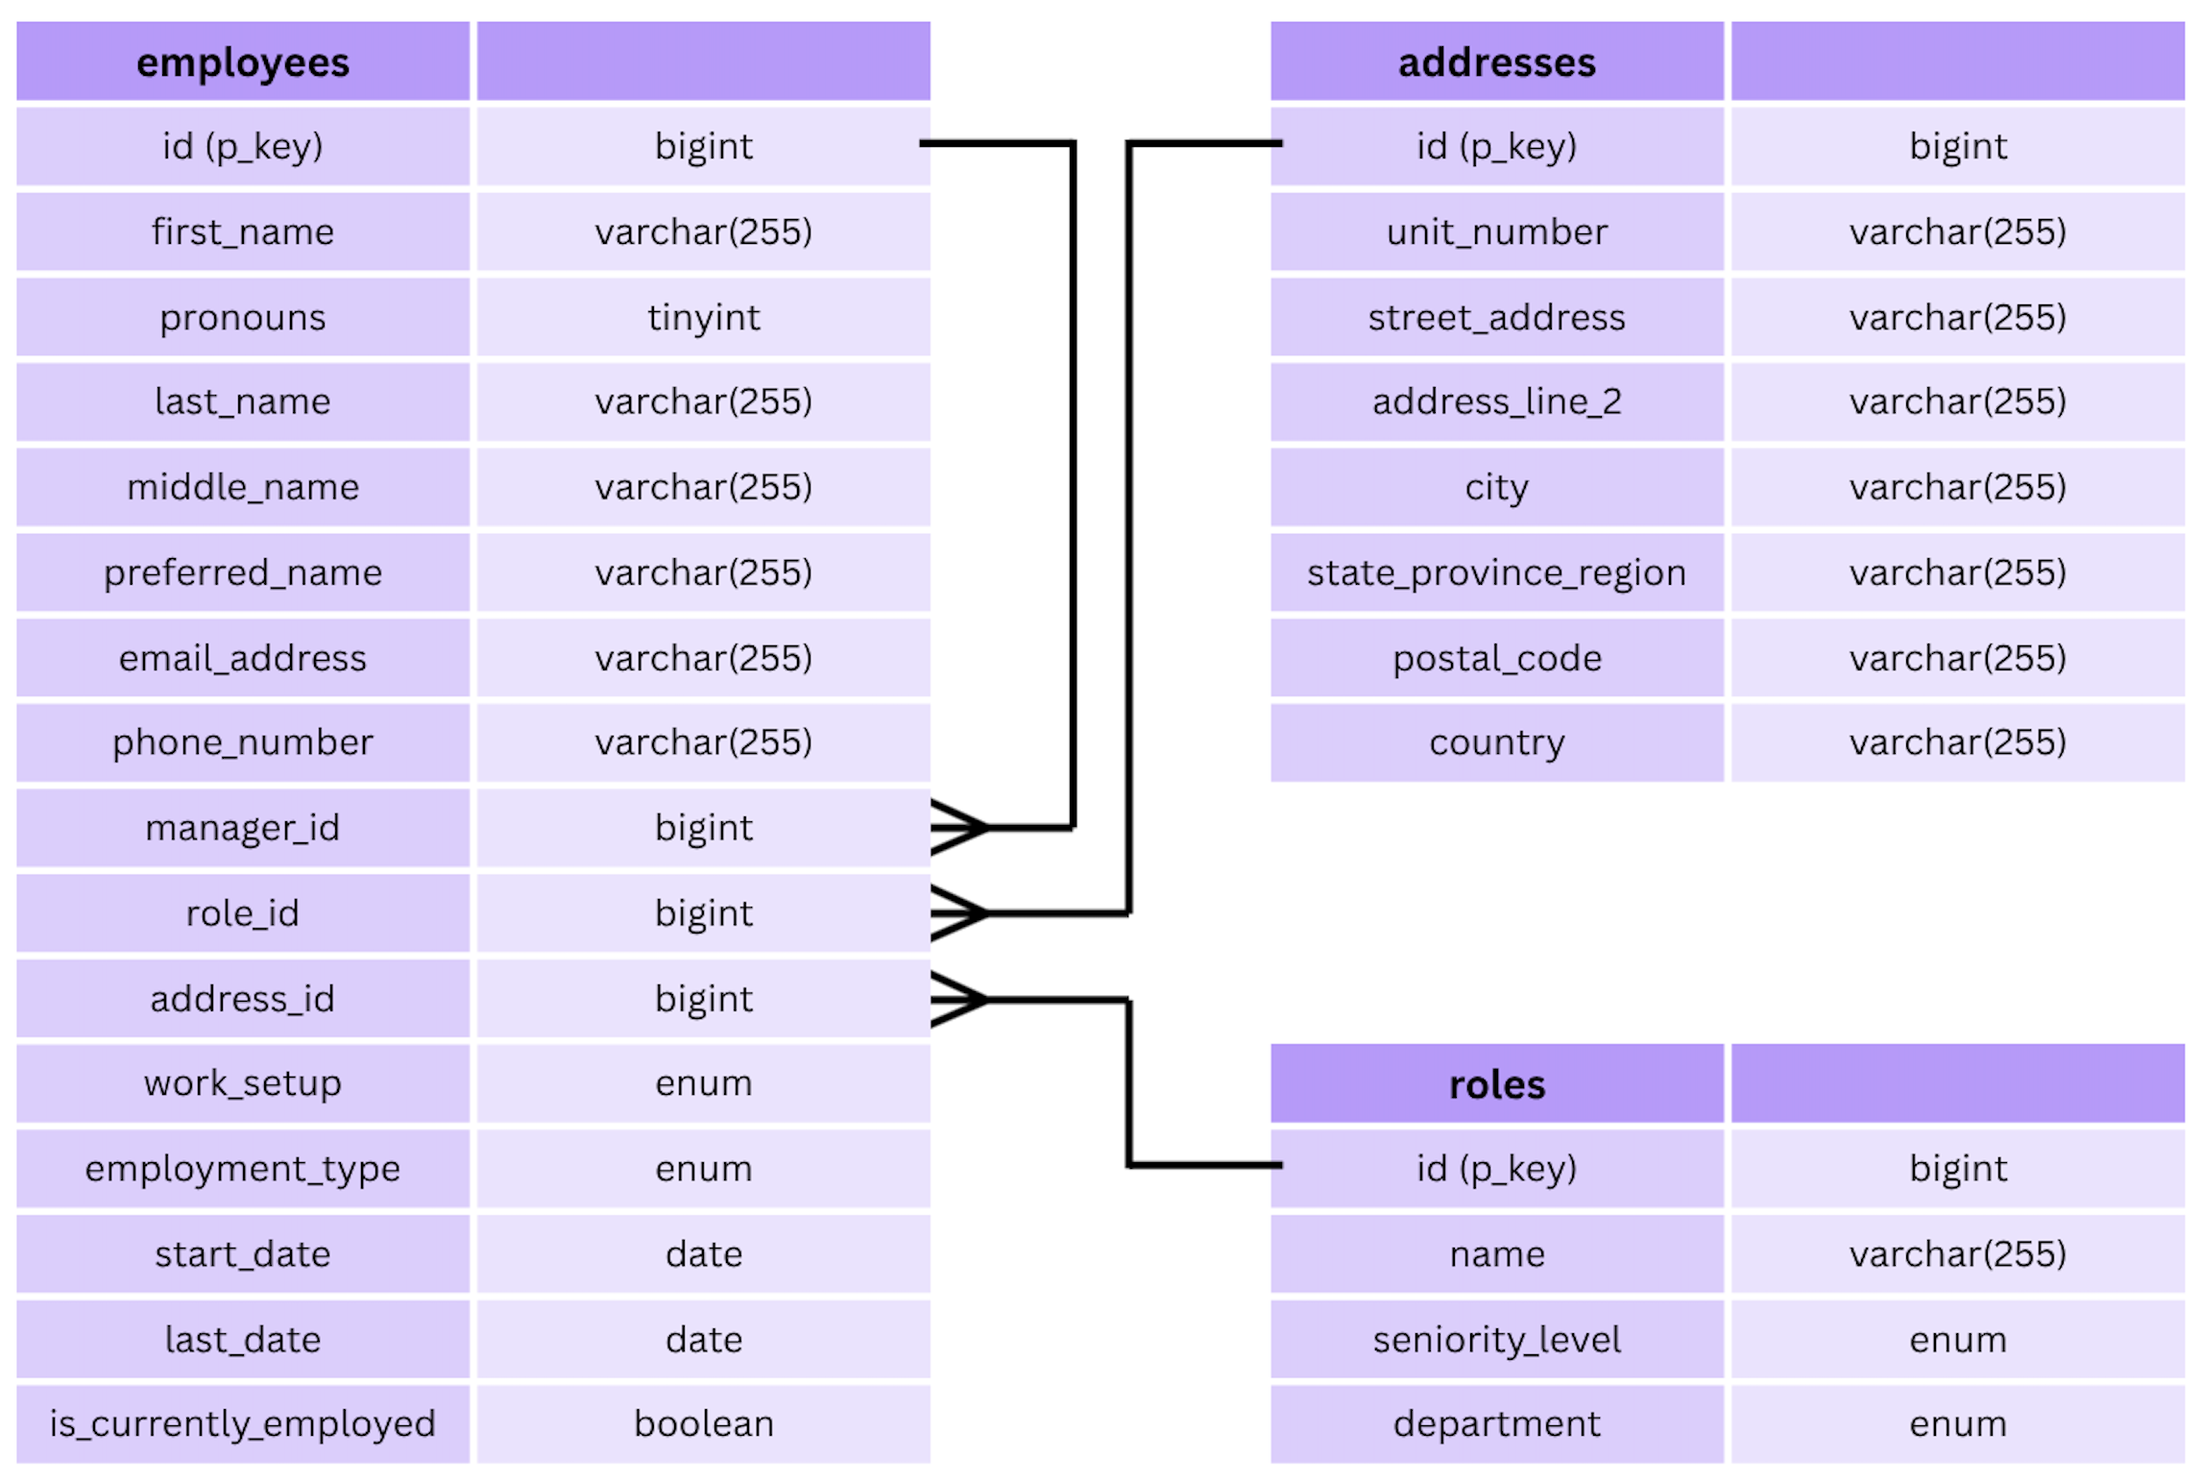
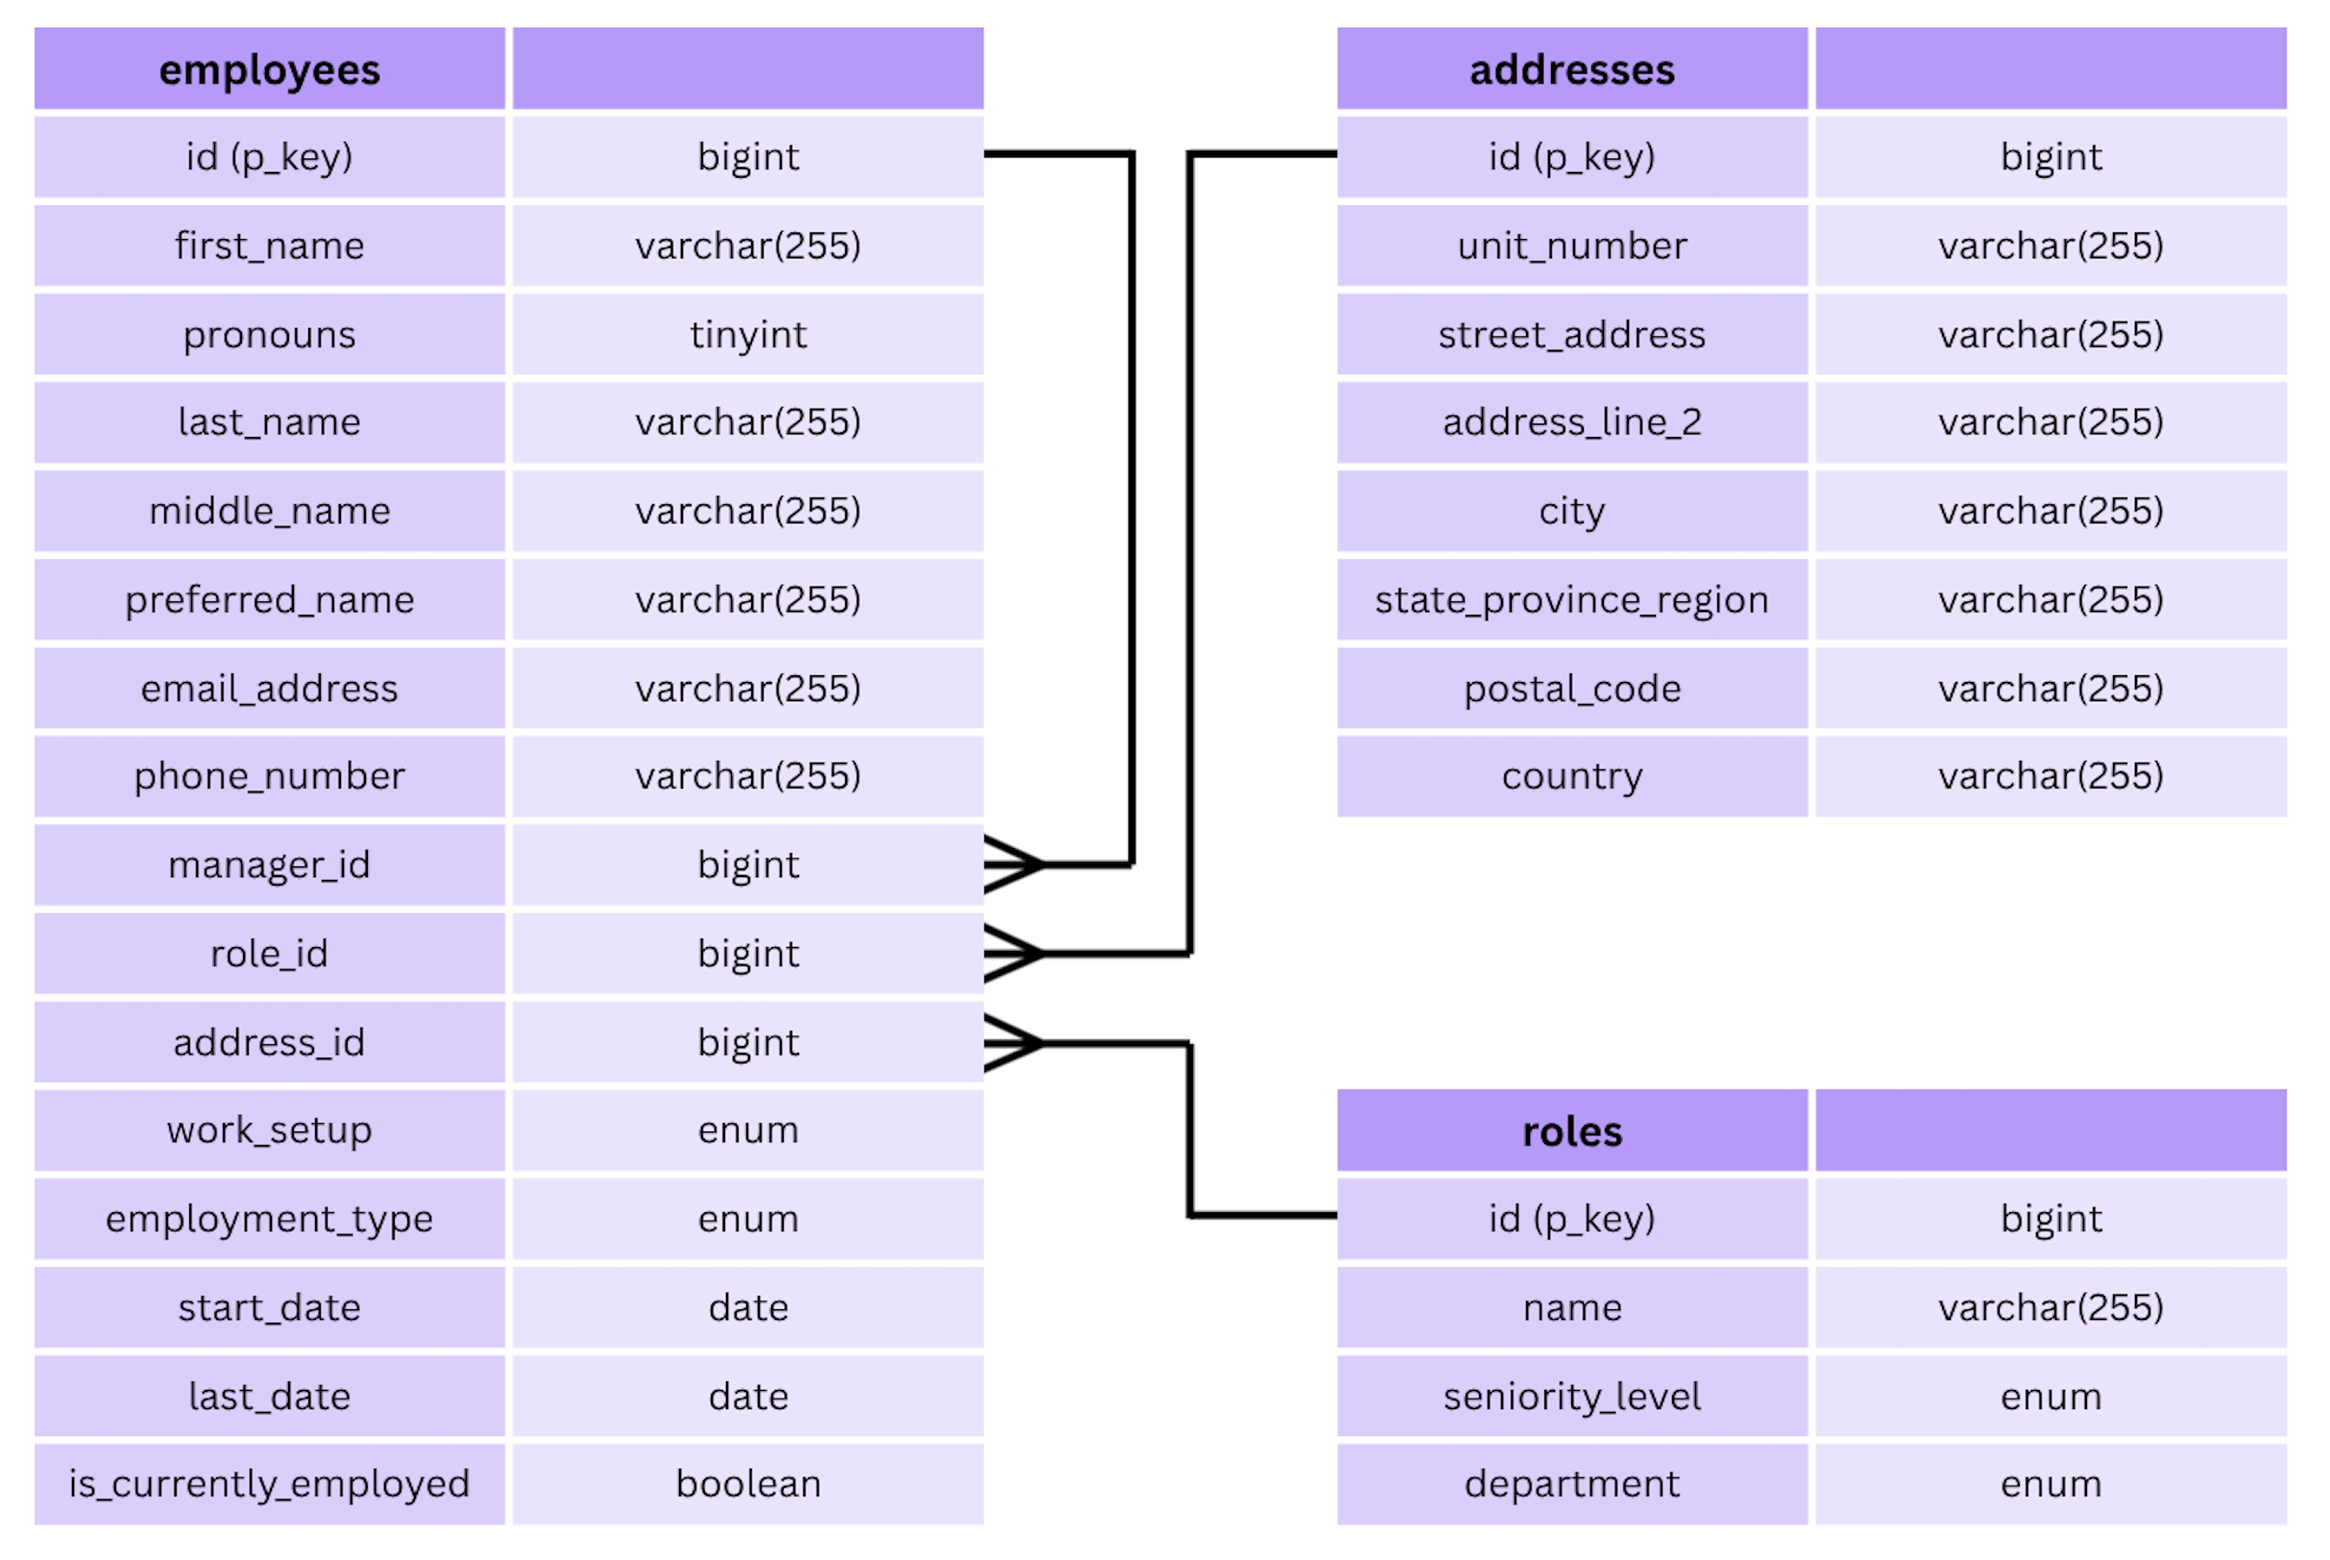
updates README

Changed region(s): [[0.0, 0.0, 1.0, 0.9961], [0.8364, 0.3113, 0.9293, 0.3424], [0.2788, 0.3113, 0.3717, 0.3424]]

diff --git a/README.md b/README.md
@@ -1,4 +1,5 @@
 # Full-Stack Employee Application
+
 [![Java CI with Maven](https://github.com/lottieorton/employees/actions/workflows/maven.yml/badge.svg)](https://github.com/lottieorton/employees/actions/workflows/maven.yml)
 
 **`IN PROGRESS`**
@@ -6,13 +7,23 @@
 ## Demo & Snippets
 
 - **Hosted Link:** TBC
-- **App Preview:** TBC
+- **App Preview:**
 
 <p align="center">
 <img
-src="."
-alt="Employee App Mobile interface"
-width= "600px"
+src="./docs/images/HomePage.png"
+alt="Employee App Homepage"
+width= "1000px"
+/>
+<img
+src="./docs/images/EmployeeDetails.png"
+alt="Employee App Employee Page"
+width= "1000px"
+/>
+<img
+src="./docs/images/EmployeeForm.png"
+alt="Employee App Employee Form"
+width= "1000px"
 />
 </p>
 
@@ -22,12 +33,12 @@ width= "600px"
 
 ### MVP & Purpose
 
-This application will be a full-stack employee management system designed to help users easily oversee employee information. Users can manage employees through full CRUD (Create, Read, Update and Delete) operations.
+This application is a full-stack employee management system designed to help users easily oversee employee information. Users can manage employees through full CRUD (Create, Read, Update and Delete) operations.
 
 ### Tech Stack
 
 - **Frontend:** React, TypeScript, React Query (TanStack Query), React Hook Form, React Testing Library, React Router, Tailwind.
-- **Backend:** Java, Spring Boot, Spring Data JPA, mySQL, OpenAPI/Swagger.
+- **Backend:** Java, Spring Boot, Spring Data JPA, MySQL, OpenAPI/Swagger.
 - **Testing & Tools:** Vitest, REST Assured, Maven, Git, GitHub Actions.
 
 **Why this stack?**
@@ -39,11 +50,18 @@ This application will be a full-stack employee management system designed to hel
 
 ### Database Schema
 
+<p align="center">
 <img
 src="./docs/images/ERD.png"
 alt="Database Entity Relationship Diagram"
-width= "100%"
+width= "1000px"
 />
+</p>
+
+**Key Relational Features:**
+
+- **Normalised Multi-Table Relationships:** Relational mapping linking `employees`, `addresses`, and `roles` through foreign key constraints to ensure data integrity.
+- **Self-Referencing Organisational Hierarchy:** The `Employee` entity contains a self-referencing `manager_id` foreign key pointing to another `Employee` record.
 
 ---
 
@@ -69,7 +87,7 @@ width= "100%"
    mvn spring-boot:run
    ```
 
-3. Once the server is running, access the interactive Swagger API documentation and endpoint testing interface at: http://localhost:8080/swagger-ui/index.html#/
+3. Once the server is running, access the interactive Swagger API documentation and endpoint testing interface at: [http://localhost:8080/swagger-ui/index.html#/](http://localhost:8080/swagger-ui/index.html#/).
 
 ### Frontend Setup
 
@@ -122,25 +140,43 @@ SPRING_PROFILE=dev
 ## Design Goals / Approach
 
 - **Mobile-First Responsive Design:** Styled to prioritise clean layout and user experience on smaller screens before expanding to desktop views.
+- **SPA Navigation:** A multi-page impression implemented through the use of React Router.
+- **Clear State Visualisation:** Clear state messaging so users are clear of the status of any requests to the backend.
+- **Component-Driven Architecture:** Built small, modular, reusable UI components (e.g. form fields, status banners) to keep page containers clean and readable.
+- **RESTful Endpoint Design:** Structured resources (`/employees`, `/addresses`, `/roles`) following REST conventions.
+- **Relational Entity Mapping:** Handles multi-table relationships (employees, addresses, and roles) using foreign key constraints for structured data persistence.
+- **Dynamic Database Querying:** Utilised Spring Data JPA Specifications to build dynamic database queries on demand.
+- **Clear Form Validation:** Designed form with clear indicators for required fields and input validation to reduce volume of incorrect requests made to the backend.
+- **Self-Referencing Employee Hierarchy:** Supports organisational hierarchy via a self-referencing manager relationship (`manager_id`), filtering out the current employee from manager selection dropdowns to prevent self-assignment.
 
 ---
 
 ## Features
 
-- **Employee Management:** To be implemented on frontend. Create, view, update, and delete employees. Search for employees through dynamic search options.
-- **Address Management:** Backend API endpoints only: Create, view, update, and delete addresses, to be associated with employees.
-- **Role Management:** Backend API endpoints only: Create, view, update, and delete roles, to be associated with employees.
+- **Employee Management:** Create, view, update, and delete employees. Search for employees through dynamic search options.
+- **Address Management:** Create, view, update, and delete addresses. Managed as part of the employee form or deletion process with addresses associated directly with employees.
+- **Role Management:** Create, view, update, and delete roles. In the UI, roles are read-only when assigning/viewing a role to an employee.
+- **Form Validation:** Form validation is implemented prior to form submission, with clear error messaging to enhance user experience and minimise bad requests to the backend.
+- **Dynamic Querying:** Employee searches can be automatically done through a general search (checking against multiple fields in the database) or through specific field searches.
+- **Unique Email Generation:** Upon creating an employee, a unique email is generated, preserving the unique constraint placed on the employees table.
 
 ---
 
 ## Known Issues
 
+- **Optional field overriding:** Currently unable to override an optional field back to a null value once it has been set, though it can be overridden to a different non-null value.
+
 ---
 
 ## Future Goals
 
-- **Frontend responsive styling:** Complete desktop layout breakpoints and polish animations.
-- **Frontend logic configuration:** Connect forms to React Query mutations and test end-to-end user flows.
+- **Frontend Testing:** Create both unit level and end-to-end testing suites.
+- **Backend Logging:** Implement a Log4j configuration to record application activity.
+- **Pagination:** Implement pagination functionality across the full stack.
+- **Search Filtering:** Implement employee filtering with dropdowns menus on the frontend.
+- **Multipage Form:** Update the employee form to be spread over multiple pages.
+- **Manager/Subordinate Linking:** Add links between managers and their direct reports on the employee details page.
+- **Soft Delete:** Implement a soft-delete feature so inactive employees are filtered out by default, while remaining accessible via an explicit filter.
 
 ---
 
@@ -149,11 +185,11 @@ SPRING_PROFILE=dev
 **19/08/2026:** Initial project set up
 
 - Created Spring Boot application
-- Base React Header Components Created
+- Base React Header components Created
 
 **20/08/2026:** Front-end mobile styling
 
-- Implemented main frontend components with mobile focussed styling
+- Implemented main frontend components with mobile-focussed styling
 
 **21/08/2026:** Roles and addresses endpoints and backend configuration
 
@@ -167,17 +203,49 @@ SPRING_PROFILE=dev
 
 **24/08/2026:** Backend Testing
 
-- Implemented service tests and end to end tests across roles, addresses, employees
+- Implemented service tests and end-to-end tests across roles, addresses, employees
 
-**25/08/2026:** Dynamic Query Searches
+**25/08/2026:** Dynamic Query Searches, routing and responsive fields
 
 - Implemented dynamic query searching for employees through Specifications
+- Added application license
+- Configured CI/CD pipeline for backend
+- Implemented React Router
+- Added responsive styling
+- Form field components for the different field types
+
+**26/08/2026:** Homepage and employee page base setup
+
+- Base homepage, employee page (details and form) setup
+- Configured connection from backend to frontend
+- Consumed getAllEmployees endpoint with query search
+- Implemented employees fetching error handling
+- Updated employee form and added base validation
+
+**27/08/2026:** Consumed additional endpoints for the employee page and form
+
+- Consumed getEmployeeById, getAllRoles, and createEmployee (with default address id) endpoints
+- Applied styling to employee details page
+- Created and consumed enum endpoint for form selections
+
+**28/08/2026:** Consumed update and delete endpoints
+
+- Updated implementation of create employee page
+- Consumed update and delete employee endpoints
+- Consumed update and delete address endpoints
+
+**31/08/2026:** State handling and specific field searches
+
+- Implemented complete error and loading state handling
+- Implemented specific field search bar functionality
+- Refactored employee form and styling
 
 ---
 
 ## What did you struggle with?
 
-- **Employee Testing:** Time consuming and refactoring needed when testing this complex endpoitn with query logic and dependencies.
+- **Employee Testing:** Time consuming and refactoring needed when testing this complex endpoint with query logic and dependencies.
+- **Implementing Form Validation:** Difficulty handling the various types of field authentications through zod.
 
 ---
 
